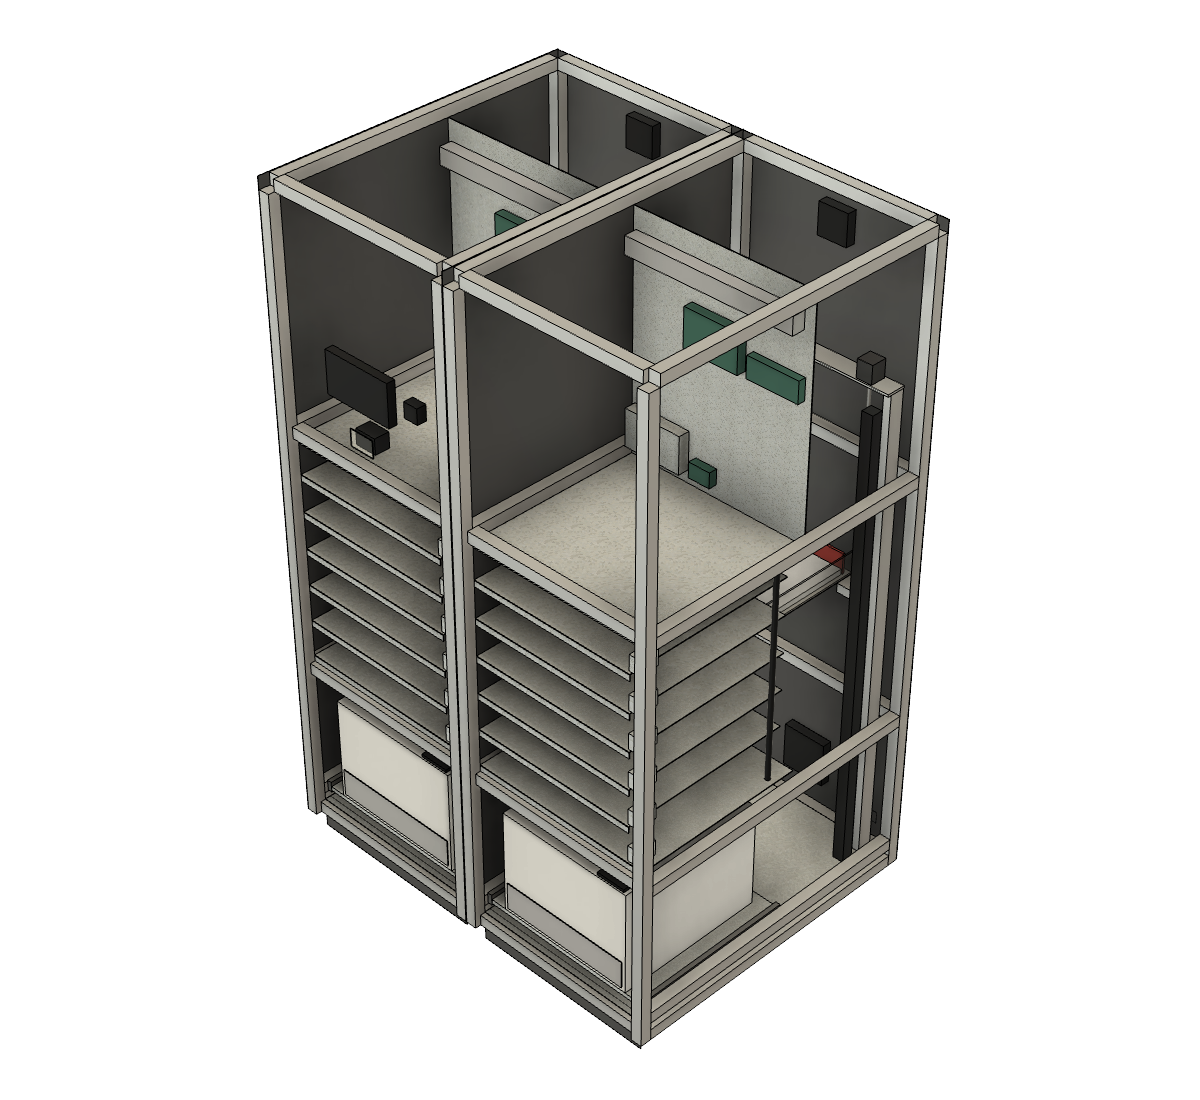
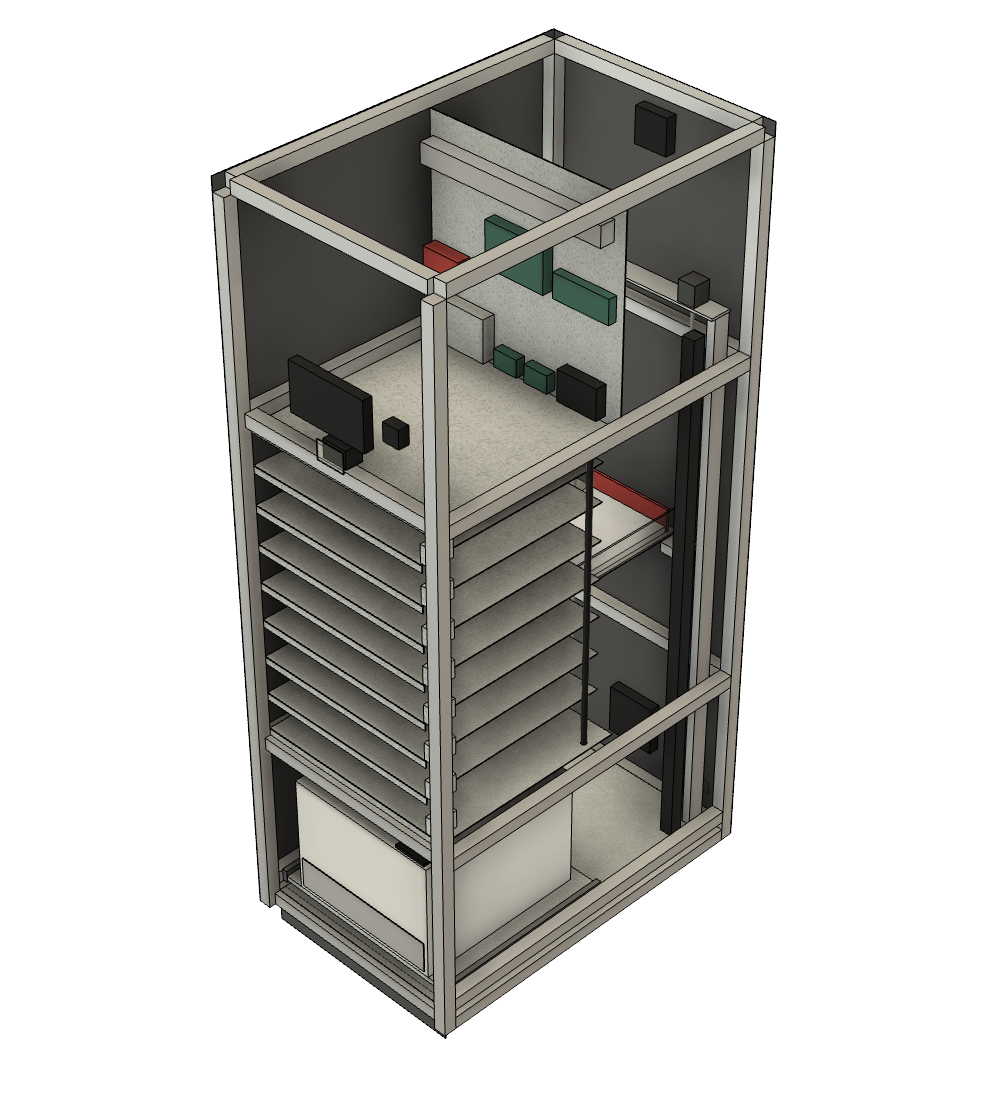
Kiosk = 1 printer + 8 compartments: model, BOM, wiring, demo seed
Claude-Session: https://claude.ai/code/session_01LdxQkdJZR4g9t9ivLnNkEN

diff --git a/backend/app/static/admin.html b/backend/app/static/admin.html
@@ -120,7 +120,7 @@
         <div><label>Kiosk</label><select id="p-kiosk"></select></div>
         <div><label>Name</label><input id="p-name" placeholder="Printer A"></div>
         <div><label>CUPS queue on the kiosk</label><input id="p-queue" placeholder="kyocera_a"></div>
-        <div><label>Compartments</label><input id="p-comps" type="number" value="5" min="1" max="30" style="width:80px"></div>
+        <div><label>Compartments</label><input id="p-comps" type="number" value="8" min="1" max="30" style="width:80px"></div>
         <div><label>Two-sided</label><select id="p-duplex"><option value="true">yes</option><option value="false">no</option></select></div>
       </div>
       <div style="margin-top:10px"><button class="btn primary" id="p-create">Add printer</button></div>

diff --git a/hardware/fusion/build_kiosk.py b/hardware/fusion/build_kiosk.py
@@ -7,13 +7,13 @@ Model coordinates (mm): x = width (left to right), y = depth (front face y=0, to
 z = height from the floor. Converted to Fusion's Y-up or Z-up automatically.
 
 Construction: 30x30 aluminium extrusion frame, 1.5 mm powder-coated steel skins, folded sheet
-shelves and doors. One column = one printer + six compartments; columns bolt side by side.
+shelves and doors. One kiosk = one column = one printer + eight compartments.
 
 Layout of one column, bottom to top:
   0-80      levelling feet + base frame
   80-498    printer bay: Kyocera PA4500x on a pull-out shelf, PT-320 face-up output at the rear
-  498-1116  six compartments (82 mm opening, takes 500+ sheets), doors with solenoid locks
-  1116-1750 head: touch screen + QR scanner (column A) / blank panel (column B), electronics plate
+  498-1236  eight compartments (90 mm pitch, 72 mm opening, takes 500 sheets), doors with solenoid locks
+  1236-1750 head: touch screen (centre 1400) + QR scanner (1290), electronics plate behind
   rear shaft (y 500-858): paper lift on two lead screws; a pusher shoves the stack into a compartment
 """
 import adsk.core
@@ -26,11 +26,11 @@ P = dict(
     SHEET=2,           # shelf / plate thickness
     BASE=80,           # top of base frame (feet below)
     BAY_TOP=498,       # first shelf; shelf i top = BAY_TOP + 18 + i * PITCH
-    N=6,               # compartments per column
-    PITCH=100,         # shelf pitch -> 82 mm opening, takes a 500-sheet stack
+    N=8,               # compartments per column
+    PITCH=90,          # shelf pitch -> 72 mm opening, takes a 500-sheet stack (~50 mm)
     SHAFT_Y=500,       # compartments end / lift shaft starts
     DUCT_X=486,        # cable duct partition; locks live in the duct (488..528)
-    COLUMNS=2,         # 2 columns = 2 printers, 12 compartments
+    COLUMNS=1,         # 1 column = 1 printer; more columns bolt on the side
     LIFT_AT=3,         # show the lift level with compartment index (0..5), -1 = at the printer
     RECEIVE_TOP=346,   # platform top when catching paper from the printer
 )
@@ -227,8 +227,8 @@ def controller(c):
     top = P['H'] - P['SKIN'] - P['F']
     floor = P['BAY_TOP'] + 18 + P['N'] * P['PITCH']
     box(c, 'Electronics plate (2 mm steel)', xl, y, floor, P['W'] - 2 * xl, 2, top - floor, SHELF)
-    box(c, 'PSU 24 V 150 W (LRS-150-24)', 40, y - 30, 1150, 159, 30, 97, 'Steel - Galvanized (Small)')
-    box(c, 'Buck 24->12 V (locks)', 220, y - 22, 1150, 60, 22, 40, 'FR4')
+    box(c, 'PSU 24 V 150 W (LRS-150-24)', 40, y - 30, 1250, 159, 30, 97, 'Steel - Galvanized (Small)')
+    box(c, 'Buck 24->12 V (locks)', 220, y - 22, 1250, 60, 22, 40, 'FR4')
     box(c, 'Column controller (ESP32 + MCP23017 + 3x TMC2209)', 200, y - 25, 1460, 150, 25, 100, 'FR4')
     box(c, 'MOSFET board 8 ch (locks)', 370, y - 20, 1460, 140, 20, 55, 'FR4')
     box(c, 'Terminal blocks on DIN rail', 40, y - 35, 1620, 460, 35, 45, 'Plastic - Matte (Gray)')
@@ -244,17 +244,17 @@ def head_panel(c, name, holes):
 
 
 def head_a(c):
-    head_panel(c, 'Head panel (hinged service door)', [(183, -1, 1305, 194, 17, 110), (245, -1, 1200, 70, 17, 45)])
-    box(c, 'Touch screen 7in (800x480)', 183, 0, 1305, 194, 22, 110, 'Plastic - Glossy (Black)')
-    box(c, 'Scanner window', 245, 4, 1200, 70, 2, 45, 'Glass (Clear)')
-    box(c, 'QR scanner module', 250, 15, 1202, 60, 40, 41, 'Plastic - Matte (Black)')
-    box(c, 'Speaker', 410, 15, 1340, 40, 25, 40, 'Plastic - Matte (Black)')
+    head_panel(c, 'Head panel (hinged service door)', [(183, -1, 1345, 194, 17, 110), (245, -1, 1270, 70, 17, 45)])
+    box(c, 'Touch screen 7in (800x480)', 183, 0, 1345, 194, 22, 110, 'Plastic - Glossy (Black)')
+    box(c, 'Scanner window', 245, 4, 1270, 70, 2, 45, 'Glass (Clear)')
+    box(c, 'QR scanner module', 250, 15, 1272, 60, 40, 41, 'Plastic - Matte (Black)')
+    box(c, 'Speaker', 410, 15, 1380, 40, 25, 40, 'Plastic - Matte (Black)')
     box(c, 'Status LED strip', 40, -2, 1690, 480, 2, 10, 'LED (Green)')
     box(c, 'Logo plate', 180, -2, 1550, 200, 2, 60, 'Paint - Enamel Glossy (Blue)')
     y = P['SHAFT_Y'] - 2
-    box(c, 'Raspberry Pi 5 in case', 40, y - 32, 1300, 95, 32, 65, 'Plastic - Matte (Red)')
-    box(c, 'Buck 24->5 V 5 A (Pi)', 300, y - 22, 1150, 60, 22, 40, 'FR4')
-    box(c, 'Ethernet switch 5-port', 390, y - 26, 1150, 100, 26, 70, 'Plastic - Matte (Black)')
+    box(c, 'Raspberry Pi 5 in case', 40, y - 32, 1380, 95, 32, 65, 'Plastic - Matte (Red)')
+    box(c, 'Buck 24->5 V 5 A (Pi)', 300, y - 22, 1250, 60, 22, 40, 'FR4')
+    box(c, 'Ethernet switch 5-port', 390, y - 26, 1250, 100, 26, 70, 'Plastic - Matte (Black)')
 
 
 def head_b(c):

diff --git a/backend/scripts/seed.py b/backend/scripts/seed.py
@@ -1,4 +1,4 @@
-"""Create a demo kiosk with 2 printers x 5 compartments and a demo user.
+"""Create a demo kiosk with 1 printer x 8 compartments (the M7 hardware design) and a demo user.
 
 Run from the backend folder:  python -m scripts.seed
 Prints the kiosk API key once; keep it for the kiosk agent (M2).
@@ -23,8 +23,7 @@ def main() -> None:
         # PL_DEMO_KIOSK_KEY lets docker-compose start the simulated kiosk with a known key.
         kiosk, api_key = create_kiosk(db, "Demo kiosk", "Main building, ground floor",
                                       api_key=os.environ.get("PL_DEMO_KIOSK_KEY") or None)
-        add_printer(db, kiosk.id, "Printer A", "printer_a", duplex=True, compartments=5)
-        add_printer(db, kiosk.id, "Printer B", "printer_b", duplex=True, compartments=5)
+        add_printer(db, kiosk.id, "Printer A", "printer_a", duplex=True, compartments=8)
         if not db.scalar(select(User.id).where(User.email == "demo@example.com")):
             db.add(User(email="demo@example.com", password_hash=hash_password("demo12345")))
         db.commit()

diff --git a/backend/app/schemas.py b/backend/app/schemas.py
@@ -79,7 +79,7 @@ class PrinterCreateIn(BaseModel):
     name: str = Field(min_length=1, max_length=100)
     cups_queue: str = Field(min_length=1, max_length=100)
     duplex: bool = True
-    compartments: int = Field(default=5, ge=1, le=30)
+    compartments: int = Field(default=8, ge=1, le=30)
     capacity_sheets: int = Field(default=500, ge=50, le=2000)
 
 

diff --git a/hardware/README.md b/hardware/README.md
@@ -4,31 +4,30 @@
 
 ![Cut-away](renders/kiosk-cutaway.png)
 
+![Side section](renders/kiosk-section-side.png)
+
 The Fusion model is generated by [`fusion/build_kiosk.py`](fusion/build_kiosk.py). Open a new design in
 Autodesk Fusion, go to Utilities › Scripts and Add-ins › +, pick the file and press Run. All sizes are in
-the `P = dict(...)` block at the top: the number of columns, compartments per column, compartment pitch,
-and where the lift is shown.
+the `P = dict(...)` block at the top: compartments, pitch, where the lift is shown, and `COLUMNS` if a
+bigger kiosk with more printers is ever needed.
 
 ## Layout
 
-A kiosk is made of **columns** bolted side by side. Each column holds one printer and six compartments. Column A also carries the
-touch screen, the QR scanner and the Raspberry Pi. The draft has two columns: **1120 W × 860 D × 1750 H mm**,
-2 printers and 12 compartments.
+**One kiosk = one printer + 8 compartments. Size 560 W × 860 D × 1750 H mm.**
 
 | Height (mm) | Zone | Contents |
 |---|---|---|
 | 0–80 | Base | Levelling feet, base frame, kick plate |
 | 80–498 | Printer bay | Kyocera PA4500x on a pull-out shelf (drawer slides); PT-320 face-up exit at the rear; key-locked front door |
-| 498–1116 | Compartments | 6 × 100 mm pitch, 82 mm opening (a 500-sheet stack is ~50 mm); folded steel doors with solenoid lock, reed switch, IR paper sensor, one-way rear flap |
-| 1116–1750 | Head | Column A: 7" screen (centre 1360 mm), QR scanner window (1220 mm), status LED strip. Behind it, the electronics plate |
+| 498–1236 | Compartments | 8 × 90 mm pitch, 72 mm opening (a 500-sheet stack is ~50 mm); folded steel doors with solenoid lock, reed switch, IR paper sensor, one-way rear flap |
+| 1236–1750 | Head | 7" screen (centre 1400 mm), QR scanner window (1290 mm), status LED strip; electronics plate behind the hinged head panel |
 | Rear, y 500–858 | Lift shaft | Two 2040 extrusions with MGN12 rails, two T8 lead screws with their own NEMA17s, platform with side guides and a belt-driven pusher |
 
 **Why 860 mm deep:** the printer is 416 mm deep. Behind it, the face-up exit needs about 320 mm of free
-space so a sheet can leave the printer fully and land flat on the lift platform. This sets the depth in any
-layout, including the earlier printer-on-top idea.
+space so a sheet can leave the printer fully and land flat on the lift platform.
 
 **Why the printer is at the bottom:** paper reams and toner are loaded at knee height from a pull-out shelf,
-and jams are cleared there too. The compartments sit at 0.5–1.1 m and the screen at a comfortable 1.36 m.
+and jams are cleared there too. The compartments sit at 0.5–1.2 m and the screen at 1.4 m.
 
 ## How a print reaches a compartment
 
@@ -40,8 +39,8 @@ and jams are cleared there too. The compartments sit at 0.5–1.1 m and the scre
 5. The pusher returns, the lift goes back down, and the IR sensor confirms there is paper in the compartment.
 
 Safety: the rear flap stops a hand reaching from an open compartment into the shaft. The lift does not move
-while any door in its column is open (reed switches). Locks are fail-secure (they stay locked without power).
-The back skin is removable for servicing the shaft.
+while any door is open (reed switches). Locks are fail-secure (they stay locked without power). The back skin
+is removable for servicing the shaft.
 
 ## Construction
 
@@ -49,73 +48,57 @@ The back skin is removable for servicing the shaft.
   sit 16 mm back so the doors close in front of them.
 - Skins: 1.5 mm powder-coated steel (sides, top, removable back). Shelves and the electronics plate are 2 mm
   galvanised steel with a 16 mm folded front lip. Doors are folded steel, 15 mm deep.
-- Columns bolt together through the touching side posts. One skin can be left off between neighbours.
 
-## Bill of materials (2-column kiosk)
+## Bill of materials (one kiosk)
 
 Prices are rough single-unit estimates in USD, not quotes.
 
 | Item | Qty | Approx. USD |
 |---|---|---|
-| Kyocera ECOSYS PA4500x + PT-320 face-up rear tray | 2 | 1,300–1,500 |
-| 30×30 aluminium extrusion, cut (≈ 26 m) + corner brackets, T-nuts | 1 set | 220 |
-| 1.5 mm steel skins + 2 mm shelves + folded doors, laser-cut and powder-coated | 1 set | 450–700 |
-| Drawer slides 450 mm, heavy duty (printer shelf) | 2 pairs | 50 |
-| Levelling feet M10 | 8 | 20 |
-| 2040 extrusion 1.26 m + MGN12 rail 1.2 m + block (lift guides) | 4 | 120 |
-| T8 lead screw 1.25 m + brass nut + coupler + bearing | 4 | 80 |
-| NEMA17 stepper (2 lift + 1 pusher per column) | 6 | 75 |
-| GT2 belt + pulleys (pusher) | 2 | 20 |
-| TMC2209 driver | 6 | 30 |
-| ESP32 DevKit + 2× MCP23017 + MOSFET board on a carrier PCB (column controller) | 2 | 70 |
-| 12 V solenoid cabinet lock | 12 | 120 |
-| Reed switch + magnet | 12 | 20 |
-| IR reflective sensor (paper present) + 1 on each lift platform | 14 | 30 |
-| Limit switches (lift top/bottom, pusher home) | 6 | 10 |
-| Drag chain 15×30, 1.2 m | 2 | 30 |
-| Mean Well LRS-150-24 (24 V 6.5 A) | 2 | 60 |
-| Buck 24→12 V 5 A (locks) / 24→5 V 5 A (Pi) | 2 + 1 | 30 |
+| Kyocera ECOSYS PA4500x + PT-320 face-up rear tray | 1 | 650–750 |
+| 30×30 aluminium extrusion, cut (≈ 13 m) + corner brackets, T-nuts | 1 set | 120 |
+| 1.5 mm steel skins + 2 mm shelves + 9 folded doors, laser-cut and powder-coated | 1 set | 300–450 |
+| Drawer slides 450 mm heavy duty (printer shelf) + 4 levelling feet | 1 pair + 4 | 40 |
+| 2040 extrusion 1.26 m + MGN12 rail 1.2 m + block (lift guides) | 2 | 60 |
+| T8 lead screw 1.25 m + brass nut + coupler + bearing | 2 | 40 |
+| NEMA17 stepper (2 lift + 1 pusher) + TMC2209 driver | 3 + 3 | 55 |
+| GT2 belt + pulleys (pusher), drag chain 15×30 1.2 m | 1 + 1 | 25 |
+| Controller: ESP32 DevKit + 2× MCP23017 + 8-ch MOSFET board on a carrier PCB | 1 | 35 |
+| 12 V solenoid cabinet lock | 8 | 80 |
+| Reed switches + magnets, IR paper sensors (8 + 1 on the platform), limit switches | 8 + 9 + 3 | 30 |
+| Mean Well LRS-150-24 (24 V 6.5 A) + buck 24→12 V 5 A + buck 24→5 V 5 A | 1 + 2 | 50 |
 | Raspberry Pi 5 4 GB + SD + cooler + case | 1 | 100 |
 | Raspberry Pi Touch Display 7" | 1 | 70 |
 | USB 2D QR scanner module | 1 | 35 |
-| 5-port gigabit switch, small speaker + USB audio | 1 | 35 |
-| WS2812 LED strip (status) + per-door LEDs | 1 | 20 |
-| IEC inlet with fuse and switch, power strip, fans 120/80 mm, wiring, terminals, DIN rail | 1 set | 120 |
-| Polycarbonate (platform guides, rear flaps) | 1 set | 30 |
-| **Total** | | **≈ 3,200–3,700 incl. 2 printers (≈ 1,900–2,200 without printers)** |
-
-A 1-column prototype costs roughly half of that: about 1,700–2,000 with one printer.
+| Small gigabit switch, speaker + USB audio, WS2812 LEDs, fans 120/80 mm, IEC inlet with fuse and switch, power strip, wiring, DIN rail | 1 set | 130 |
+| Polycarbonate (platform guides, rear flaps) | 1 set | 20 |
+| **Total** | | **≈ 1,850–2,150 incl. printer (≈ 1,200–1,400 without)** |
 
 ## Wiring
 
 ```mermaid
 flowchart LR
   mains[230 V mains] --> iec[IEC inlet + fuse + switch] --> strip[Power strip]
-  strip --> prA[Printer A]
-  strip --> prB[Printer B]
-  strip --> psuA[24 V PSU column A]
-  strip --> psuB[24 V PSU column B]
-  psuA --> drvA[TMC2209 x3 VM]
-  psuA --> b12A[Buck 12 V] --> mosA[MOSFET board] --> locksA[6 solenoid locks]
-  psuA --> b5[Buck 5 V 5 A] --> pi[Raspberry Pi 5]
+  strip --> printer[Printer]
+  strip --> psu[24 V PSU]
+  psu --> drv[TMC2209 x3 VM]
+  psu --> b12[Buck 12 V] --> mos[MOSFET board] --> locks[8 solenoid locks]
+  psu --> b5[Buck 5 V 5 A] --> pi[Raspberry Pi 5]
   pi -- DSI --> screen[7in touch screen]
   pi -- USB --> qr[QR scanner]
-  pi -- USB --> espA[ESP32 column A]
-  pi -- USB --> espB[ESP32 column B]
-  pi -- Ethernet --> sw[Switch] --> prA & prB & lan[Building LAN]
-  espA -- STEP/DIR/EN + UART --> drvA --> motA[Lift L+R, pusher]
-  espA -- I2C --> mcpA[MCP23017 x2] --> mosA
-  reedA[Reed switches, IR sensors] --> mcpA
-  limA[Limit switches, tray sensor] --> espA
+  pi -- USB --> esp[ESP32 controller]
+  pi -- Ethernet --> sw[Switch] --> printer & lan[Building LAN]
+  esp -- STEP/DIR/EN + UART --> drv --> mot[Lift L+R, pusher]
+  esp -- I2C --> mcp[MCP23017 x2] --> mos
+  sens[Reed switches, IR sensors, bay door] --> mcp
+  lim[Limit switches, platform sensor] --> esp
 ```
 
-Column B is wired the same way as column A, without the Pi, screen and scanner.
-
-### Column controller pin map (ESP32 DevKit)
+### Controller pin map (ESP32 DevKit)
 
 | ESP32 pin | Function | Notes |
 |---|---|---|
-| USB | Serial to the Pi | JSON lines, 115200 baud (protocol in `kiosk-agent/agent/hardware.py`) |
+| USB | Serial to the Pi | JSON lines, 115200 baud (protocol in `kiosk-agent/agent/hardware.py`, `column` is always 1) |
 | GPIO 25 / 26 | Lift STEP / DIR | Both lift drivers share STEP and DIR, so the two lead screws stay in sync |
 | GPIO 32 / 33 | Pusher STEP / DIR | |
 | GPIO 13 | Driver ENABLE (all 3) | Active low; disabled when idle to cut heat |
@@ -129,14 +112,12 @@ Column B is wired the same way as column A, without the Pi, screen and scanner.
 
 | MCP23017 | Pins | Function |
 |---|---|---|
-| #1 0x20 | GPA0–5 | Lock 1–6 (to MOSFET gates, flyback diode on each lock) |
-| #1 0x20 | GPB0–5 | Reed switch door 1–6 (closed = low) |
-| #1 0x20 | GPA6 | Bay door switch |
-| #2 0x21 | GPA0–5 | Compartment 1–6 paper sensor |
+| #1 0x20 | GPA0–7 | Lock 1–8 (to MOSFET gates, flyback diode on each lock) |
+| #1 0x20 | GPB0–7 | Reed switch door 1–8 (closed = low) |
+| #2 0x21 | GPA0–7 | Compartment 1–8 paper sensor |
+| #2 0x21 | GPB0 | Printer bay door switch |
 
-Software note for M8: the agent currently talks to a single ESP32 and passes `column` in each command. With
-one controller per column it opens one serial port per column and drops the `column` field. Lock numbers
-become 1–6 per column.
+With one printer and one controller, the existing agent ↔ ESP32 protocol works unchanged.
 
 ## Open points to verify with the real printer
 

diff --git a/README.md b/README.md
@@ -10,7 +10,7 @@ Self-service A4 print kiosk with QR-unlocked pickup compartments.
 | M4 Flutter app | done |
 | M5 Admin panel (`/admin` on the API: live overview, open doors, clear printers, jobs, events, setup) | done |
 | M6 Real print | waiting for the printer |
-| M7 Hardware design ([`hardware/`](hardware/README.md): Fusion model script, BOM, wiring) | draft done |
+| M7 Hardware design ([`hardware/`](hardware/README.md): 1 printer + 8 compartments, Fusion model script, BOM, wiring) | draft done |
 | M8 Firmware · M9 Prototype | later |
 
 **Live test setup (Render + Vercel, free plans; first visit after idle takes ~1 min):**
